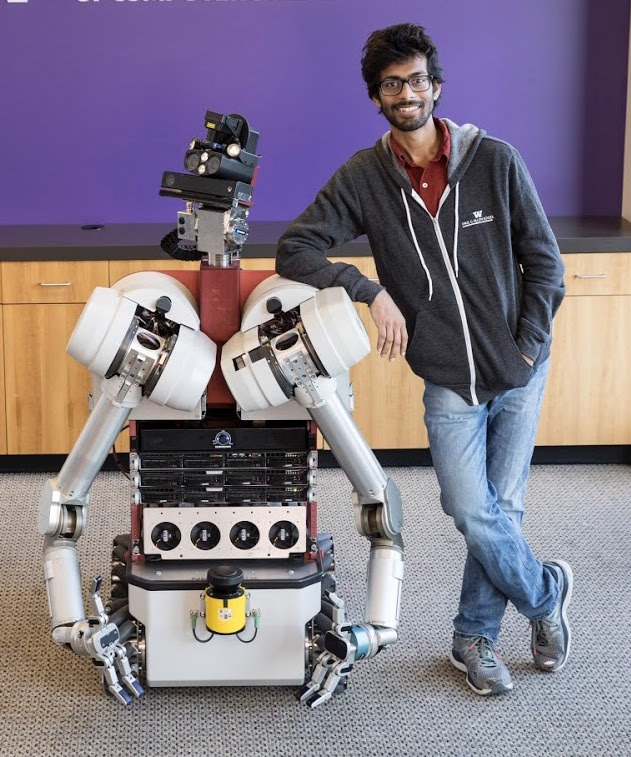
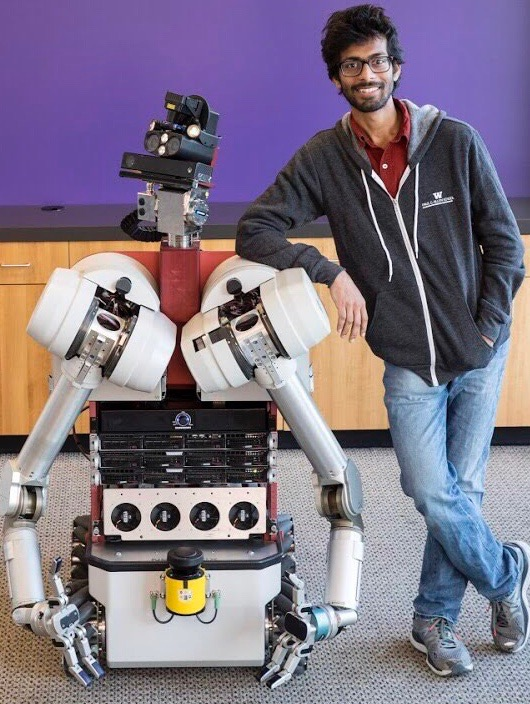
update image and size

diff --git a/index.html b/index.html
@@ -36,7 +36,7 @@
     <div id="container">
         <div id="content">
 
-    		<img src="images/avk.JPG" alt="image" height="250" width="200"/>
+    		<img src="images/avk.JPG" alt="image" height="265" width="200"/>
 
         	<p>Greetings! I am Aditya Vamsikrishna, a first-year PhD student at the Allen School of Computer Science and Engineering, University of Washington! I am advised by <a href="https://homes.cs.washington.edu/~siddh/">Prof. Siddhartha Srinivasa</a> and work at the <a href="http://personalrobotics.cs.washington.edu">Personal Robotics Laboratory</a>. I am generally interested in planning and decision-making for robotics. [describe research here]
 

diff --git a/contact.html b/contact.html
@@ -35,7 +35,7 @@
 
     <div id="container">
         <div id="content">
-            <img src="images/avk.JPG" alt="image" height="250" width="200"/>
+            <img src="images/avk.JPG" alt="image" height="265" width="200"/>
         	<p><b>Email:</b> adityavk@cs.uw.edu</p>
             <p><b>Office:</b> #318, Allen School of Computer Science and Engineering</p>
             <p><b>Mailing Address:</b></br>
